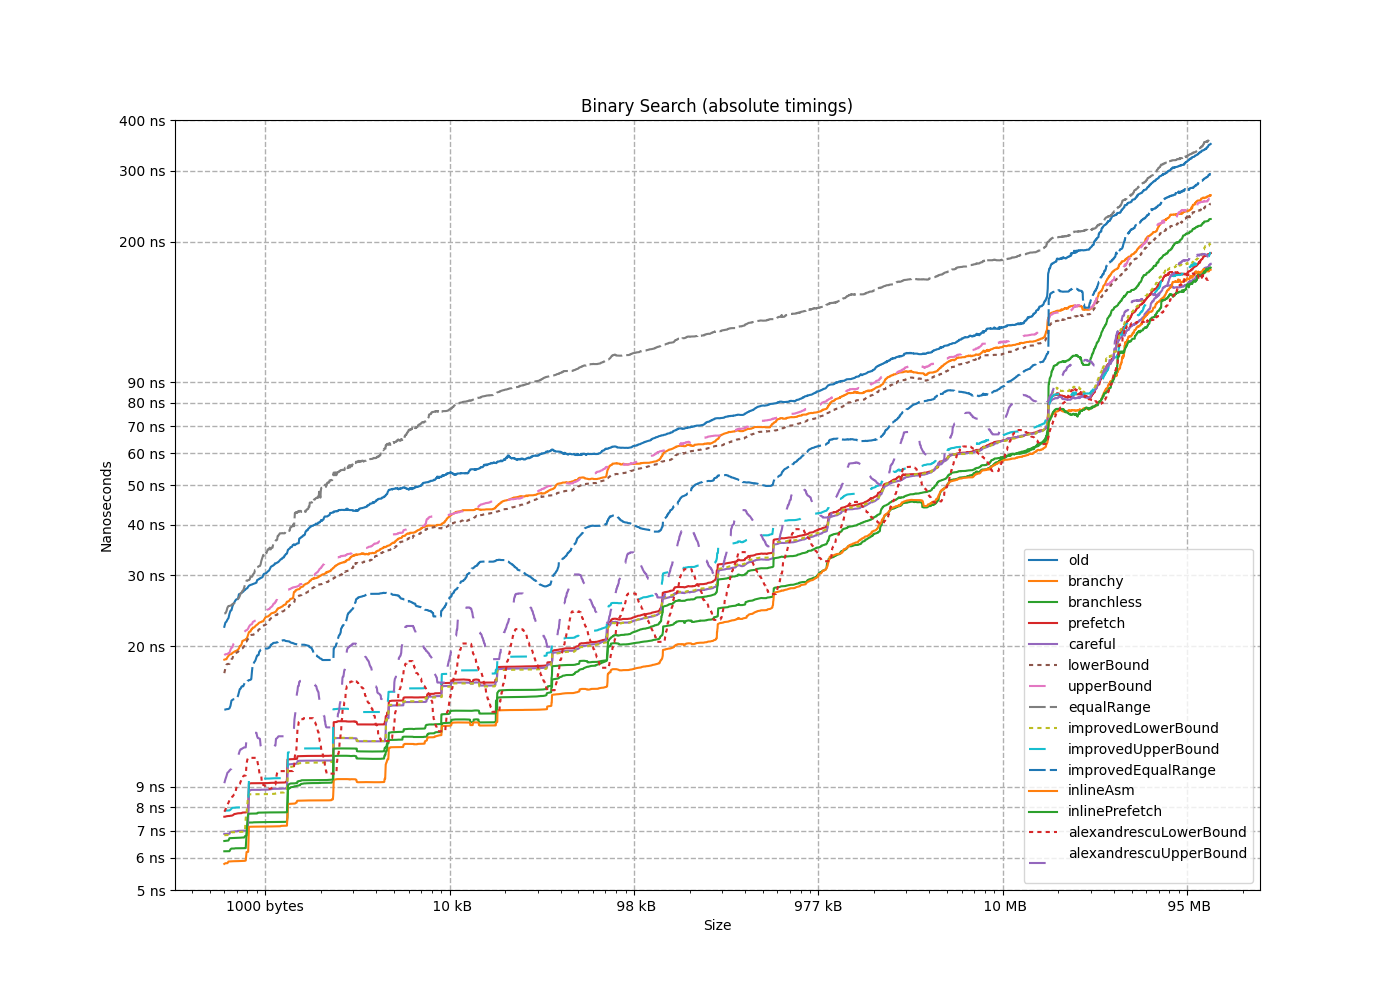
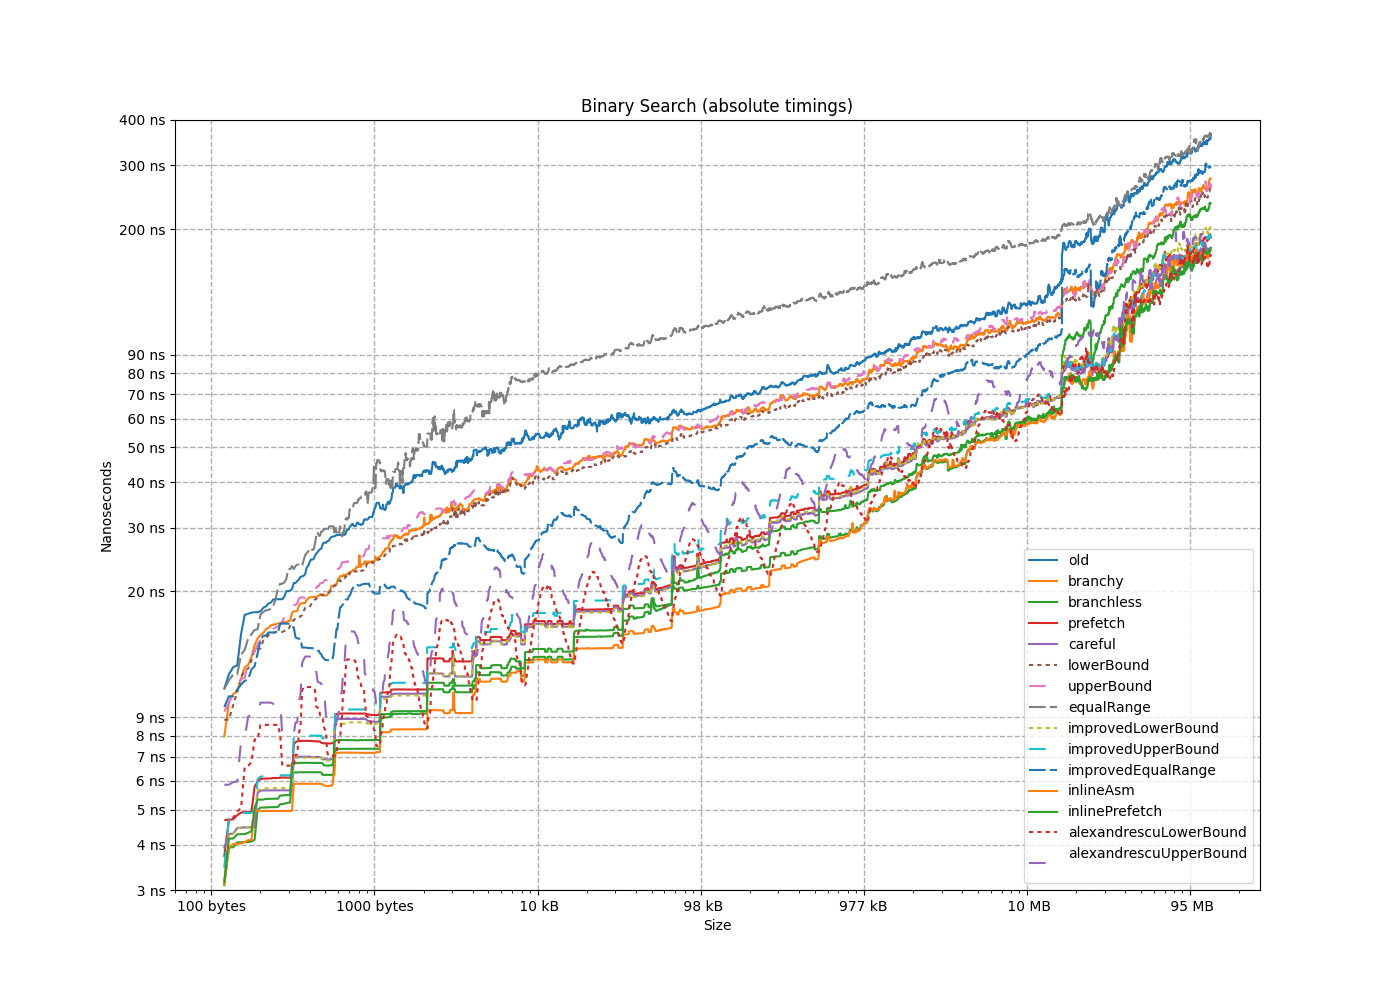
add smoothed versions of plots

diff --git a/plot.py b/plot.py
@@ -23,7 +23,7 @@ def time_fmt(x, pos):
 
 
 def main(name):
-    file = open(name + ".csv", "r")
+    file = open(name.split("_")[0] + ".csv", "r")
     lines = file.readlines()
 
     data = []
@@ -39,7 +39,7 @@ def main(name):
 
     df_to_plot = df
 
-    rolling_size = 75
+    rolling_size = 100 if "smooth" in name else 15  
     plt.figure(figsize=(14, 10))
     inf = float("inf")
     lo, hi = inf, -inf
@@ -65,11 +65,11 @@ def main(name):
 
     plt.gca().set_yscale("log")
 
-    if name == "relative":
+    if "relative" in name:
         simple_formatter = lambda x, _: "%0.1f" % x
         plt.gca().yaxis.set_major_formatter(tkr.FuncFormatter(simple_formatter))
         plt.gca().yaxis.set_minor_formatter(tkr.FuncFormatter(simple_formatter))
-    elif name == "absolute":
+    elif "absolute" in name:
         plt.gca().yaxis.set_major_formatter(tkr.FuncFormatter(time_fmt))
     else:
         raise Exception("Unknown name: " + name)
@@ -82,16 +82,16 @@ def main(name):
         tkr.LogLocator(base=10.0, subs="auto", numticks=100)
     )
     plt.gca().grid(True, which="major", linestyle="--", linewidth=1)
-    if name == "relative":
+    if "relative" in name:
         lower_lim = 1
         print(lo, hi)
         while lower_lim > lo:
-            lower_lim -= 0.1
+            lower_lim -= 0.01
         upper_lim = 1
         while upper_lim < hi:
             upper_lim += 1
         plt.gca().set_ylim(lower_lim, upper_lim)
-    elif name == "absolute":
+    elif "absolute" in name:
         lower_lim = 100
         print(lo, hi)
         while lower_lim > lo:
@@ -118,3 +118,5 @@ def main(name):
 
 main("absolute")
 main("relative")
+main("absolute_smooth")
+main("relative_smooth")
